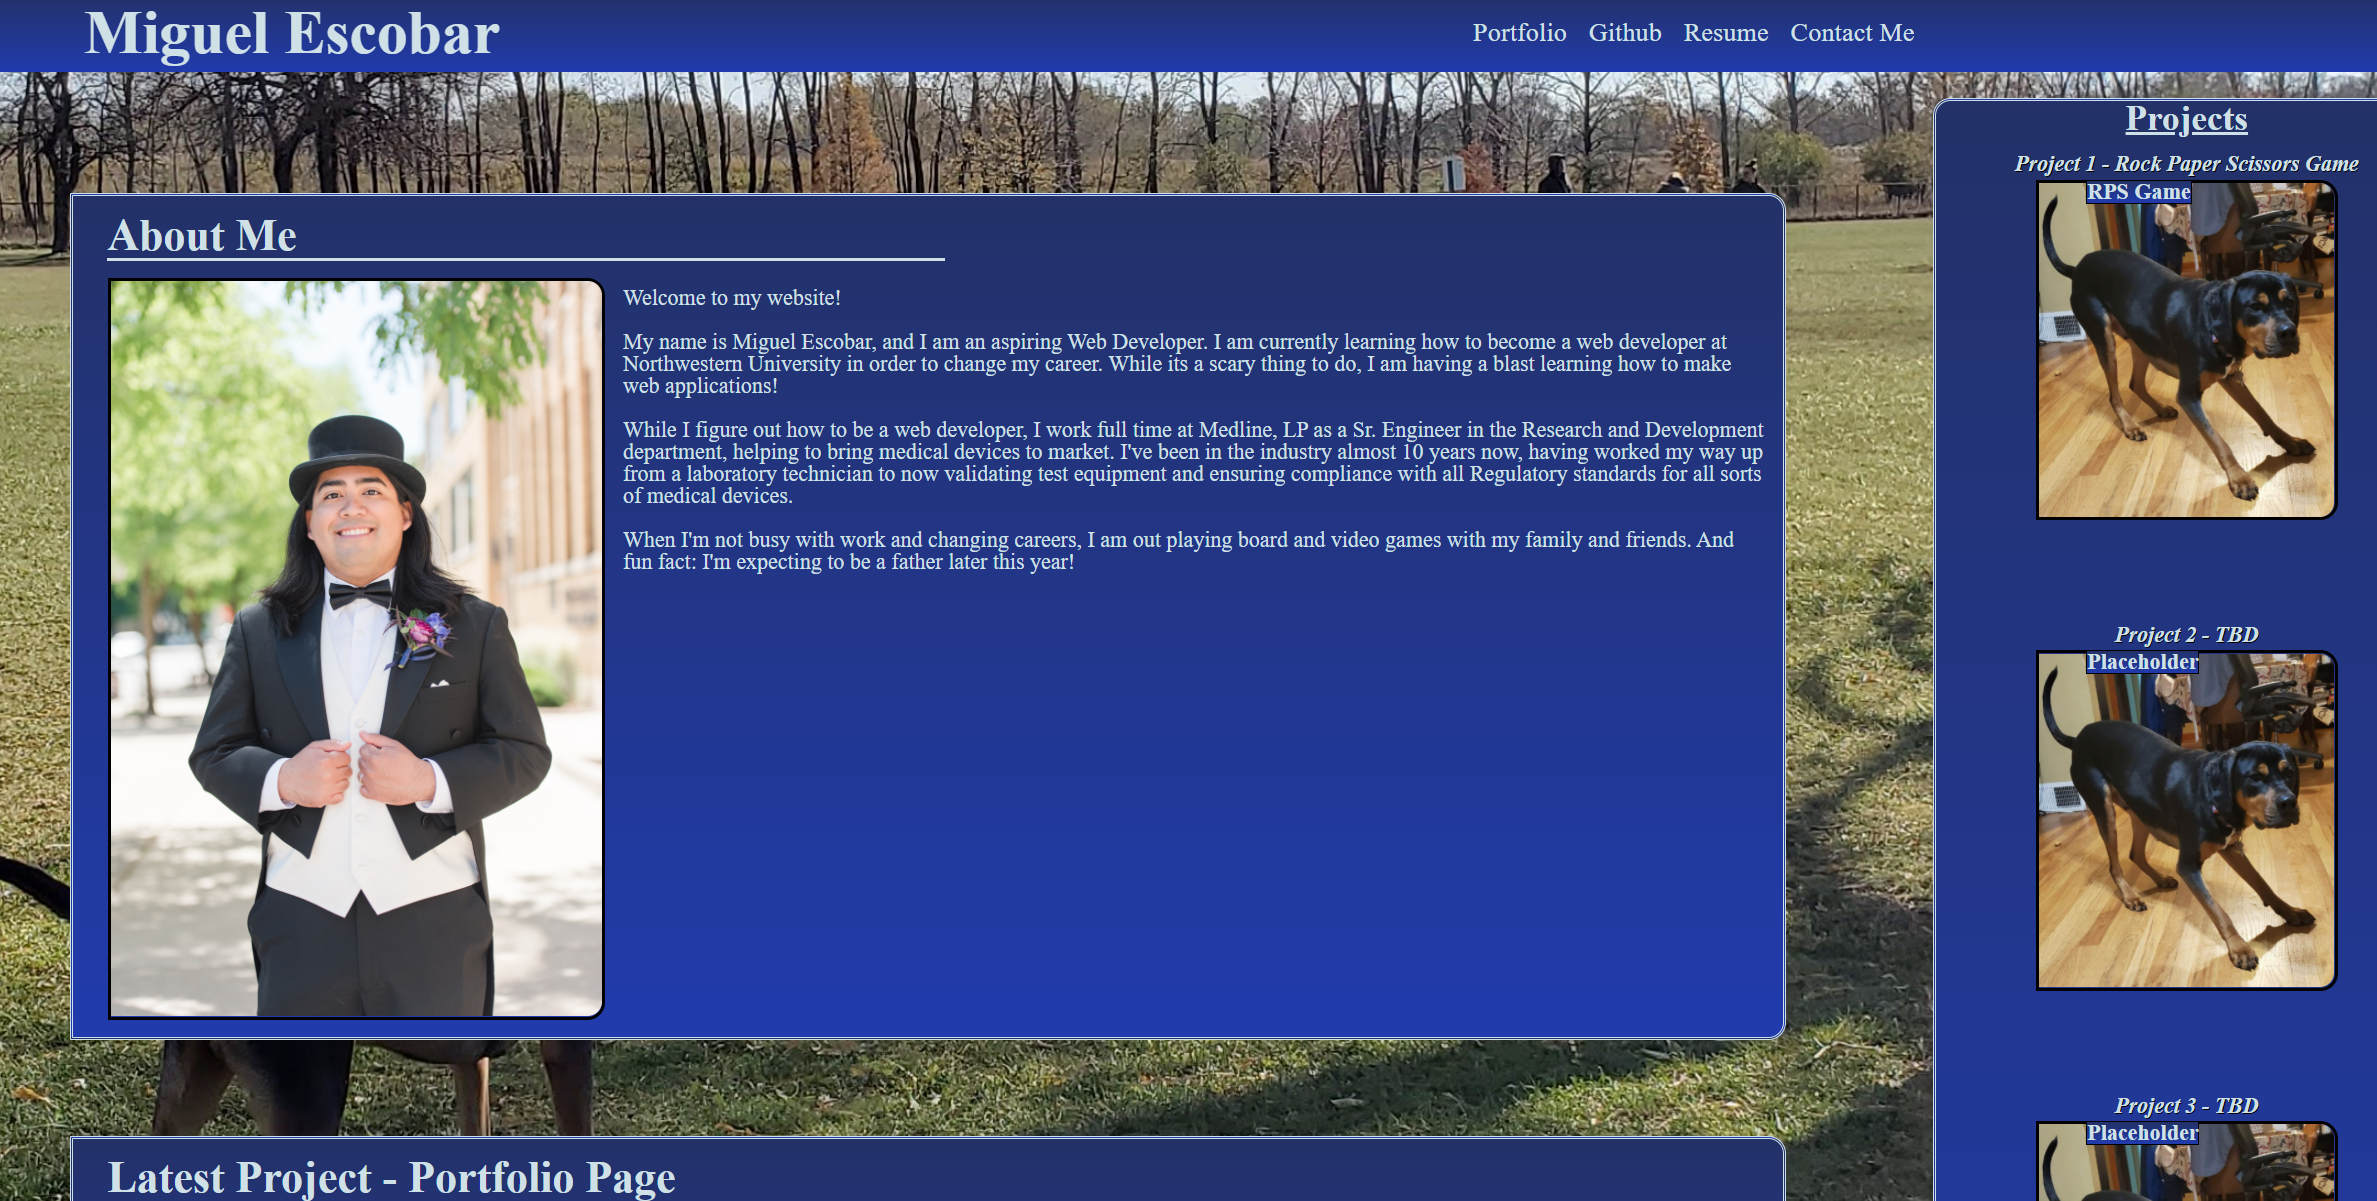
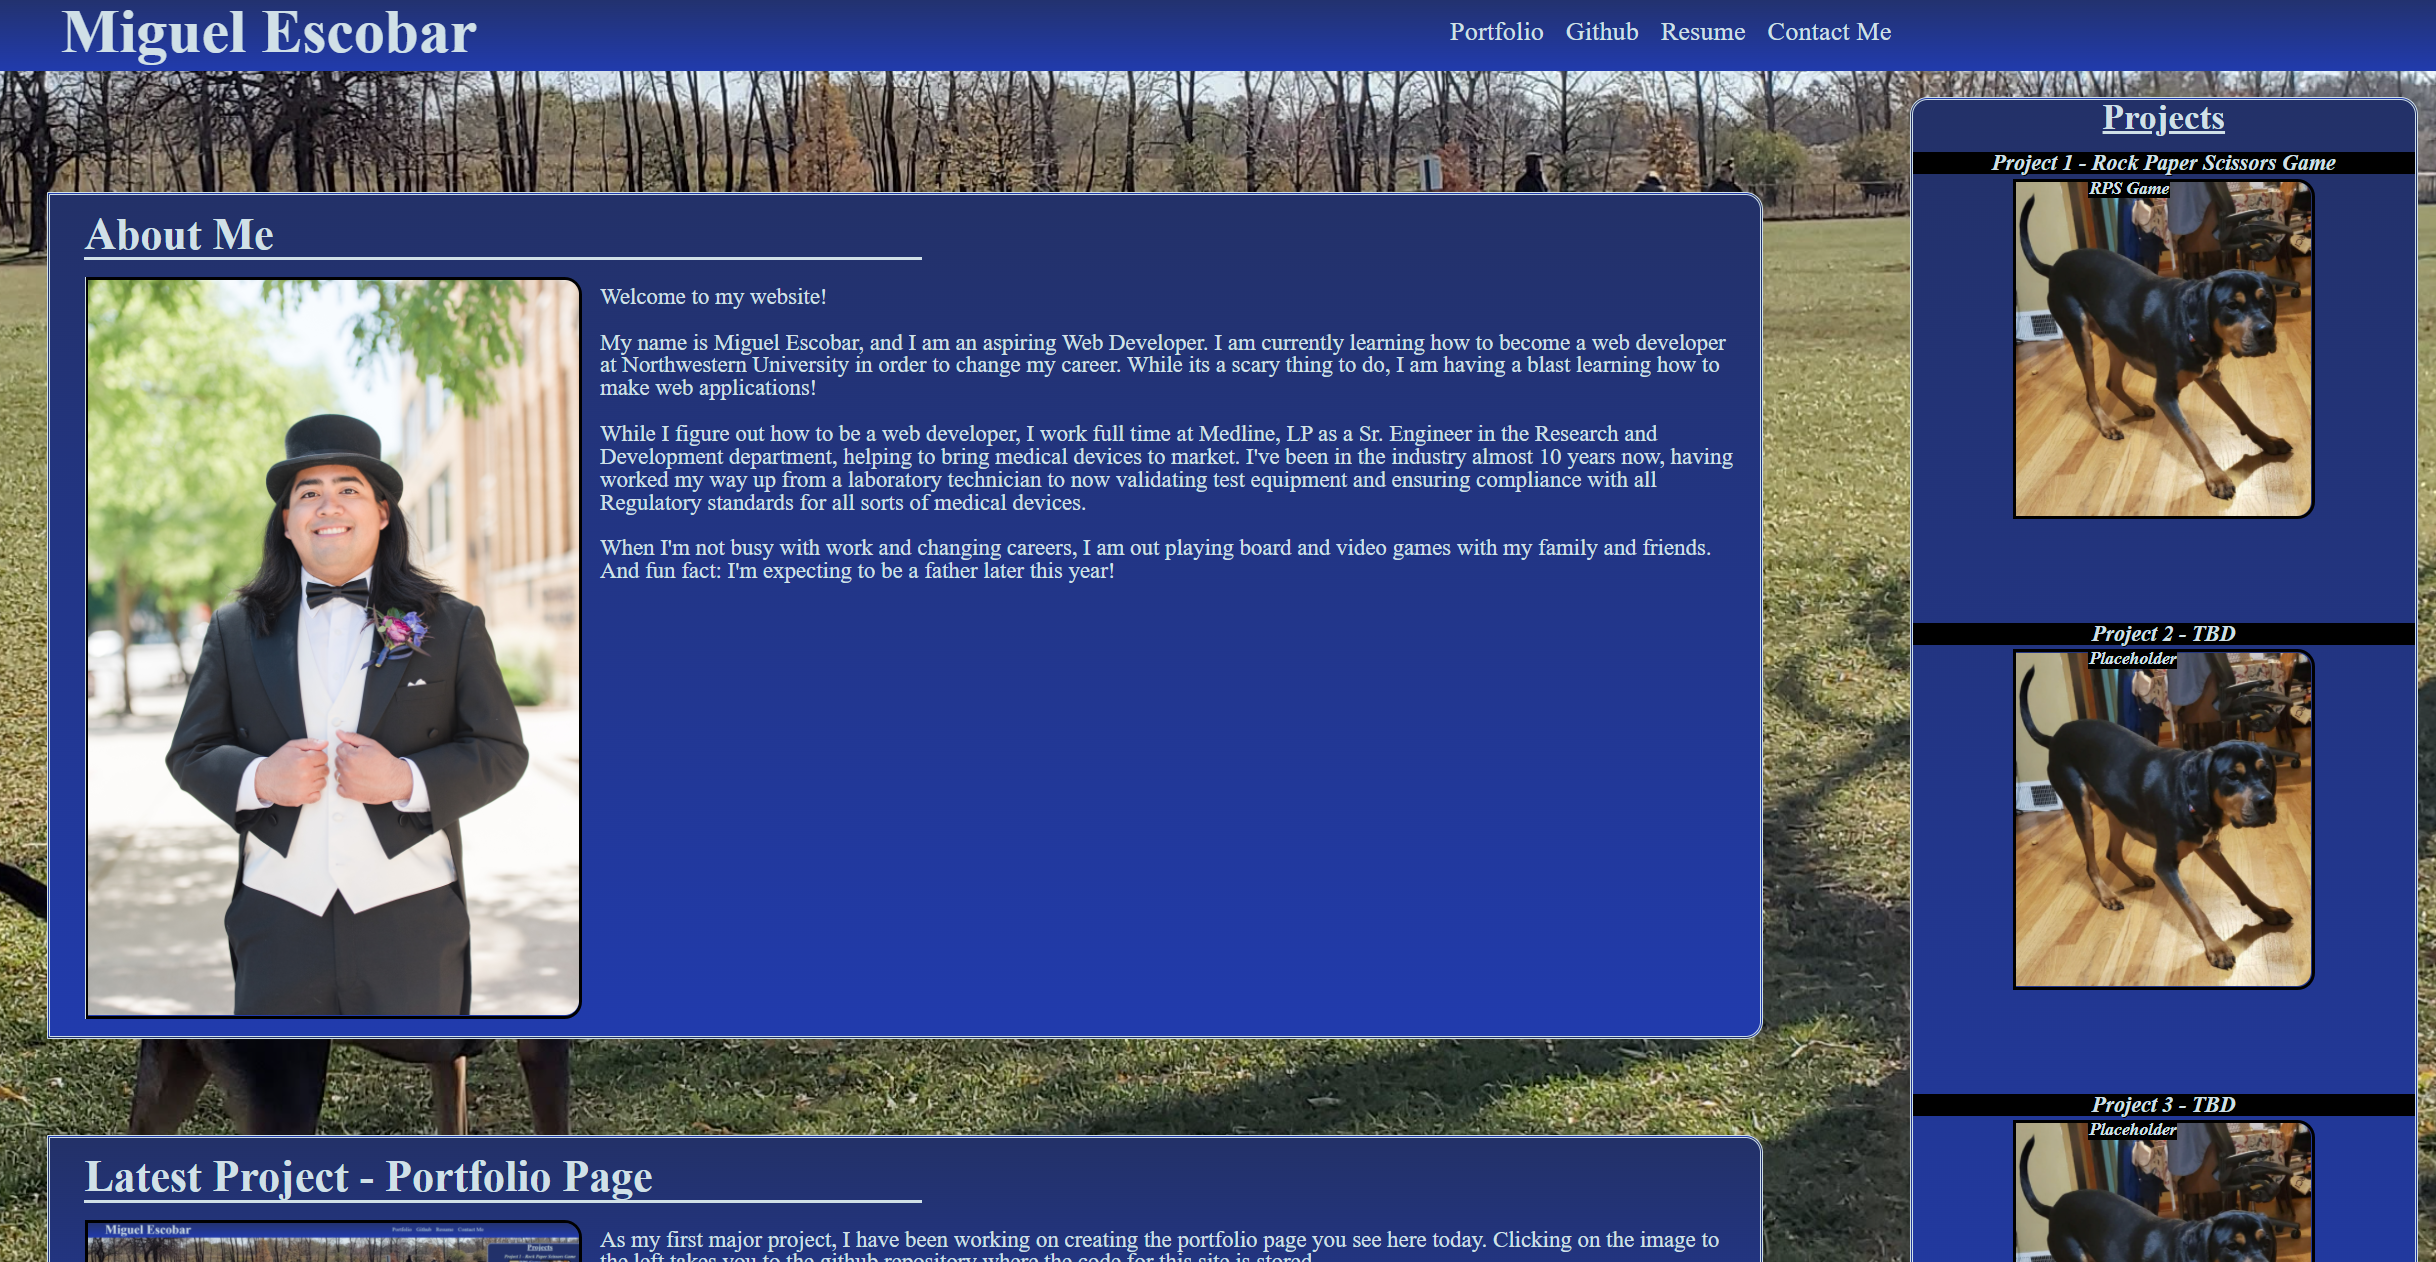
- Updated screenshot image for latest project, readme.
- Named main container sections.

- Formatted under 600px layout.

diff --git a/Assets/css/style.css b/Assets/css/style.css
@@ -169,6 +169,7 @@ main img {
     height: auto
 }
 
+/* Latest Project image formatting */
 a img {
     max-width: 100%;
     height: auto;
@@ -212,39 +213,59 @@ footer {
 }
 
 /* Responsive layout information */
-@media screen and (max-width: 980px) {
+@media screen and (max-width: 980px) {    
+    /* Realign headers text */
+    header {
+        justify-content: center;
+        text-align: center;
+    }
+
+    /* Realign h2 */
+    h2 {
+        text-align: center;
+        width: auto;
+    }
+    
     /* Pushes Aside below Main Container */
     main {
         flex-basis: 100%;
     }
-    /*  */
+
+    /* Brings aside container under main container */
     aside {
         flex-basis: 100%;
-        flex-direction: row;
         margin: 5%;
     }
 
-    aside article{
-        flex-basis: 33%;
-        max-width: 33%;
+    /* Formats aside pictures */
+    .project img {
+        margin: 1em 0;
+        height: 200px;
+        width: auto;
     }
-    
+
     /* Removes image text */
     h6 {
         display: none;  
     }
+
+    /* Reformats list styles */  
+    ul li {
+        display: flex;
+        flex-direction: column;
+        margin: 0.5em 0;
+    }
 }
 
-/* Responsive layout for under 440px */
-@media screen and (max-width: 440px) {
-
-    /* Reformats list styles */
-    ul li {
-        display: block;
-        margin: 0.5em 0;
-        width: 100%;
-        justify-content: center;
-        text-align: center;
+/* Responsive layout for under 600px */
+@media screen and (max-width: 600px) {
+    /* Moves main container pictures above text  */
+    #aboutme section, #newproject section {
+        flex-wrap: wrap;
     }
-    
+    /* Moves pictures to center */
+    .picInfo {
+        justify-content: center;
+    }
+
 }

diff --git a/index.html b/index.html
@@ -24,7 +24,7 @@
     <main>
         <article id="aboutme">
             <h2>About Me</h2>
-            <section>
+            <section class="picInfo">
                 <img id="profilepic" src="./Assets/IOP_1331.jpg" alt="Miguel Escobar" />
                 <section class="information">
                     <p>Welcome to my website!</p>
@@ -36,7 +36,7 @@
         </article>
         <article id="newproject">
             <h2>Latest Project - Portfolio Page</h2>
-            <section>
+            <section class="picInfo">
                 <a href="https://mae2136.github.io/Miguel-Escobar/"><img id="lateimg" src="./Assets/screenshot.PNG" alt="Miguel's Portfolio" /></a>
                 <section class="information">
                     <p>As my first major project, I have been working on creating the portfolio page you see here today. Clicking on the image to the left takes you to the github repository where the code for this site is stored.
